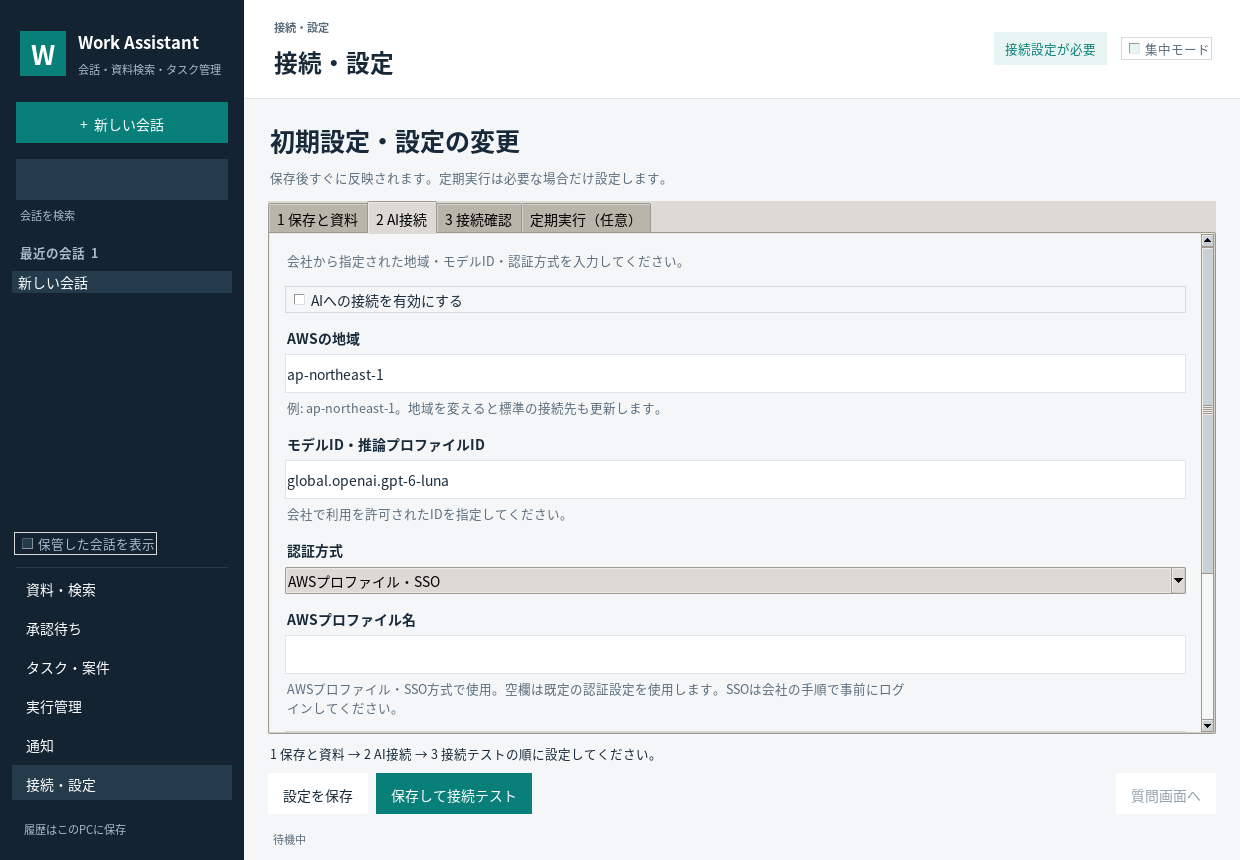
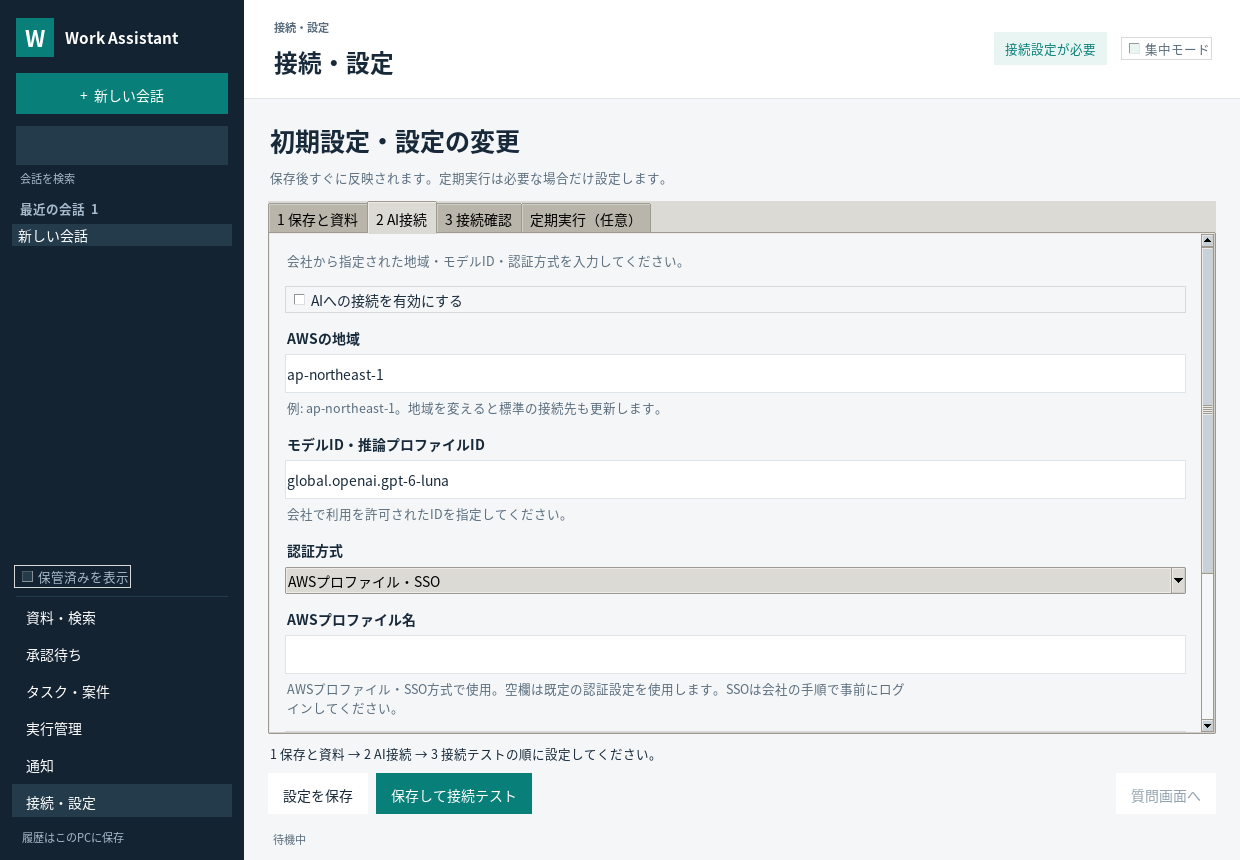
Keep desktop navigation visible with enlarged Windows fonts
Reserve sidebar space for navigation and let the conversation list use the
remaining height. Reduce redundant branding and spacing so settings remain
accessible at 960x700 with larger Windows font metrics. Retain the scaling
regression test and refresh setup screenshots and integrity hashes.

Changed region(s): [[0.0, 0.0, 0.1839, 0.3628], [0.0, 0.6047, 0.1839, 0.9977]]

diff --git a/work_assistant/ui.py b/work_assistant/ui.py
@@ -75,32 +75,33 @@ class Desktop:
     def _build_sidebar(self):
         self.sidebar = tk.Frame(self.root, bg=NAV, width=244)
         self.sidebar.pack(side="left", fill="y"); self.sidebar.pack_propagate(False)
-        brand = tk.Frame(self.sidebar, bg=NAV); brand.pack(fill="x", padx=20, pady=(27, 22))
-        label(brand, "W", size=19, bold=True, bg=TEAL, fg=WHITE, padx=10, pady=2).pack(side="left", padx=(0, 10))
-        words = tk.Frame(brand, bg=NAV); words.pack(side="left")
-        label(words, "Work Assistant", size=12, bold=True, bg=NAV, fg=WHITE).pack(anchor="w")
-        label(words, "会話・資料検索・タスク管理", size=8, bg=NAV, fg=NAV_MUTED).pack(anchor="w", pady=(3, 0))
-        button(self.sidebar, "+  新しい会話", self.new_session, primary=True).pack(fill="x", padx=16, pady=(0, 16))
-        entry(self.sidebar, self.session_filter, dark=True).pack(fill="x", padx=16, ipady=8)
-        label(self.sidebar, "会話を検索", size=8, bg=NAV, fg=NAV_MUTED).pack(anchor="w", padx=18, pady=(5, 15))
+        # Reserve navigation before allocating the remaining height to history.
+        # Windows font metrics and enlarged fonts must not push settings offscreen.
+        label(self.sidebar, "履歴はこのPCに保存", size=8, bg=NAV, fg=NAV_MUTED).pack(side="bottom", anchor="w", padx=20, pady=(8, 12))
+        navigation = tk.Frame(self.sidebar, bg=NAV); navigation.pack(side="bottom", fill="x")
+        self.nav_buttons = {}
+        for name in ("documents", "proposals", "tasks", "work", "notifications", "settings"):
+            nav = button(navigation, PAGE_TITLES[name], lambda n=name: self.show_page(n), dark=True, anchor="w")
+            nav.configure(bg=NAV, highlightbackground=NAV, pady=4)
+            nav.pack(fill="x", padx=12, pady=2); self.nav_buttons[name] = nav
+        tk.Frame(self.sidebar, bg=NAV_HOVER, height=1).pack(side="bottom", fill="x", padx=16)
+        tk.Checkbutton(self.sidebar, text="保管済みを表示", variable=self.show_archived, command=self.refresh_sessions,
+                       bg=NAV, fg=NAV_MUTED, activebackground=NAV, activeforeground=WHITE,
+                       selectcolor=NAV_HOVER, font=(self.root.ui_font, 9), borderwidth=0).pack(side="bottom", anchor="w", padx=14, pady=8)
+        brand = tk.Frame(self.sidebar, bg=NAV); brand.pack(fill="x", padx=16, pady=(18, 16))
+        label(brand, "W", size=16, bold=True, bg=TEAL, fg=WHITE, padx=8, pady=2).pack(side="left", padx=(0, 9))
+        label(brand, "Work Assistant", size=11, bold=True, bg=NAV, fg=WHITE).pack(side="left")
+        button(self.sidebar, "+  新しい会話", self.new_session, primary=True).pack(fill="x", padx=16, pady=(0, 12))
+        entry(self.sidebar, self.session_filter, dark=True).pack(fill="x", padx=16, ipady=7)
+        label(self.sidebar, "会話を検索", size=8, bg=NAV, fg=NAV_MUTED).pack(anchor="w", padx=18, pady=(3, 8))
         self.session_caption = label(self.sidebar, "最近の会話", size=9, bold=True, bg=NAV, fg=NAV_MUTED)
-        self.session_caption.pack(anchor="w", padx=18, pady=(0, 7))
+        self.session_caption.pack(anchor="w", padx=18, pady=(0, 4))
         self.session_list = tk.Listbox(self.sidebar, bg=NAV, fg="#dfebf3", selectbackground=NAV_HOVER,
                                        selectforeground=WHITE, relief="flat", borderwidth=0, highlightthickness=0,
                                        activestyle="none", exportselection=False, font=(self.root.ui_font, 10),
                                        selectborderwidth=0, height=1)
         self.session_list.pack(fill="both", expand=True, padx=12)
         self.session_list.bind("<<ListboxSelect>>", self.select_session)
-        tk.Checkbutton(self.sidebar, text="保管した会話を表示", variable=self.show_archived, command=self.refresh_sessions,
-                       bg=NAV, fg=NAV_MUTED, activebackground=NAV, activeforeground=WHITE,
-                       selectcolor=NAV_HOVER, font=(self.root.ui_font, 9), borderwidth=0).pack(anchor="w", padx=14, pady=12)
-        tk.Frame(self.sidebar, bg=NAV_HOVER, height=1).pack(fill="x", padx=16)
-        self.nav_buttons = {}
-        for name in ("documents", "proposals", "tasks", "work", "notifications", "settings"):
-            nav = button(self.sidebar, PAGE_TITLES[name], lambda n=name: self.show_page(n), dark=True, anchor="w")
-            nav.configure(bg=NAV, highlightbackground=NAV, pady=5)
-            nav.pack(fill="x", padx=12, pady=2); self.nav_buttons[name] = nav
-        label(self.sidebar, "履歴はこのPCに保存", size=8, fg=NAV_MUTED, bg=NAV).pack(anchor="w", padx=22, pady=(17, 20))
 
     def _build_header(self):
         header = tk.Frame(self.main, bg=WHITE, padx=28, pady=17); header.pack(fill="x")

diff --git a/tests/test_ui.py b/tests/test_ui.py
@@ -311,13 +311,13 @@ class DesktopTests(unittest.TestCase):
         self.app.root.geometry("960x700"); self.settle()
         self.assertIn("1 保存と資料", [panel.tabs.tab(tab, "text") for tab in panel.tabs.tabs()])
         for widget in (panel.save_button, panel.test_button, panel.chat_button):
-            self.assertTrue(widget.winfo_ismapped())
+            self.assertTrue(widget.winfo_ismapped(), str(widget.cget("text")) if "text" in widget.keys() else str(widget))
             self.assertGreaterEqual(widget.winfo_rootx(), self.app.root.winfo_rootx())
             self.assertLessEqual(widget.winfo_rootx() + widget.winfo_width(), self.app.root.winfo_rootx() + self.app.root.winfo_width())
             self.assertLessEqual(widget.winfo_rooty() + widget.winfo_height(), self.app.root.winfo_rooty() + self.app.root.winfo_height())
         self.assertEqual(str(panel.chat_button["state"]), "disabled")
         for widget in self.app.nav_buttons.values():
-            self.assertTrue(widget.winfo_ismapped())
+            self.assertTrue(widget.winfo_ismapped(), str(widget.cget("text")) if "text" in widget.keys() else str(widget))
             self.assertLessEqual(widget.winfo_rooty() + widget.winfo_height(), self.app.root.winfo_rooty() + self.app.root.winfo_height())
 
     def test_gui_setup_import_question_and_citation_without_json_edit_or_restart(self):
@@ -435,7 +435,7 @@ class DesktopTests(unittest.TestCase):
         dialog.geometry("640x400"); self.settle(.05)
         actions = next(w for w in dialog.winfo_children() if w.winfo_class() == "Frame")
         for widget in actions.winfo_children():
-            self.assertTrue(widget.winfo_ismapped())
+            self.assertTrue(widget.winfo_ismapped(), str(widget.cget("text")) if "text" in widget.keys() else str(widget))
             self.assertLessEqual(widget.winfo_rooty() + widget.winfo_height(), dialog.winfo_rooty() + dialog.winfo_height())
         choose = next(w for w in actions.winfo_children() if w["text"] == "この資料を添える")
         self.assertEqual(str(choose["state"]), "disabled")
@@ -471,7 +471,7 @@ class DesktopTests(unittest.TestCase):
         self.app.root.report_callback_exception = lambda kind, error, trace: self.callback_errors.append(str(error))
         self.app.root.geometry("960x700"); self.app.show_page("settings"); self.settle()
         for widget in [*self.app.nav_buttons.values(), self.app.settings_panel.save_button, self.app.settings_panel.test_button]:
-            self.assertTrue(widget.winfo_ismapped())
+            self.assertTrue(widget.winfo_ismapped(), str(widget.cget("text")) if "text" in widget.keys() else str(widget))
             self.assertLessEqual(widget.winfo_rootx() + widget.winfo_width(), self.app.root.winfo_rootx() + self.app.root.winfo_width())
             self.assertLessEqual(widget.winfo_rooty() + widget.winfo_height(), self.app.root.winfo_rooty() + self.app.root.winfo_height())
 
